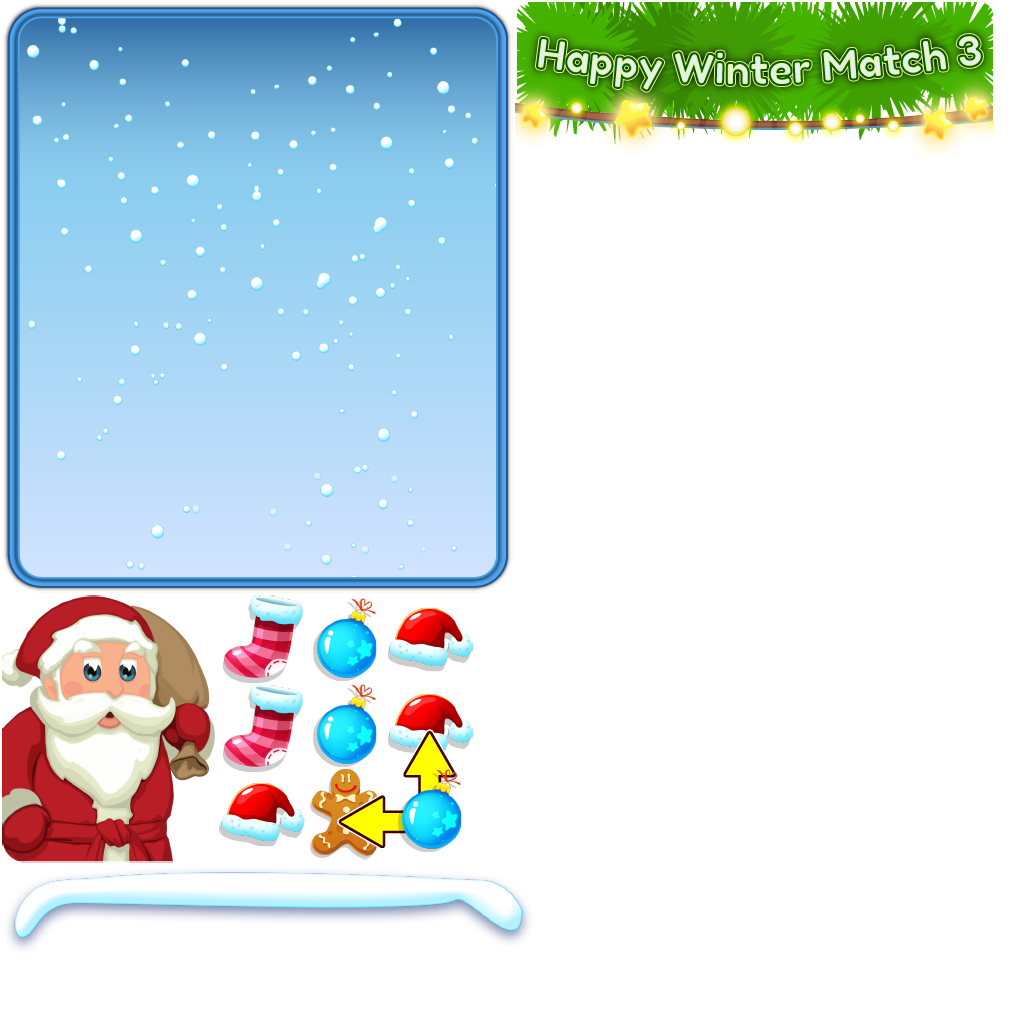
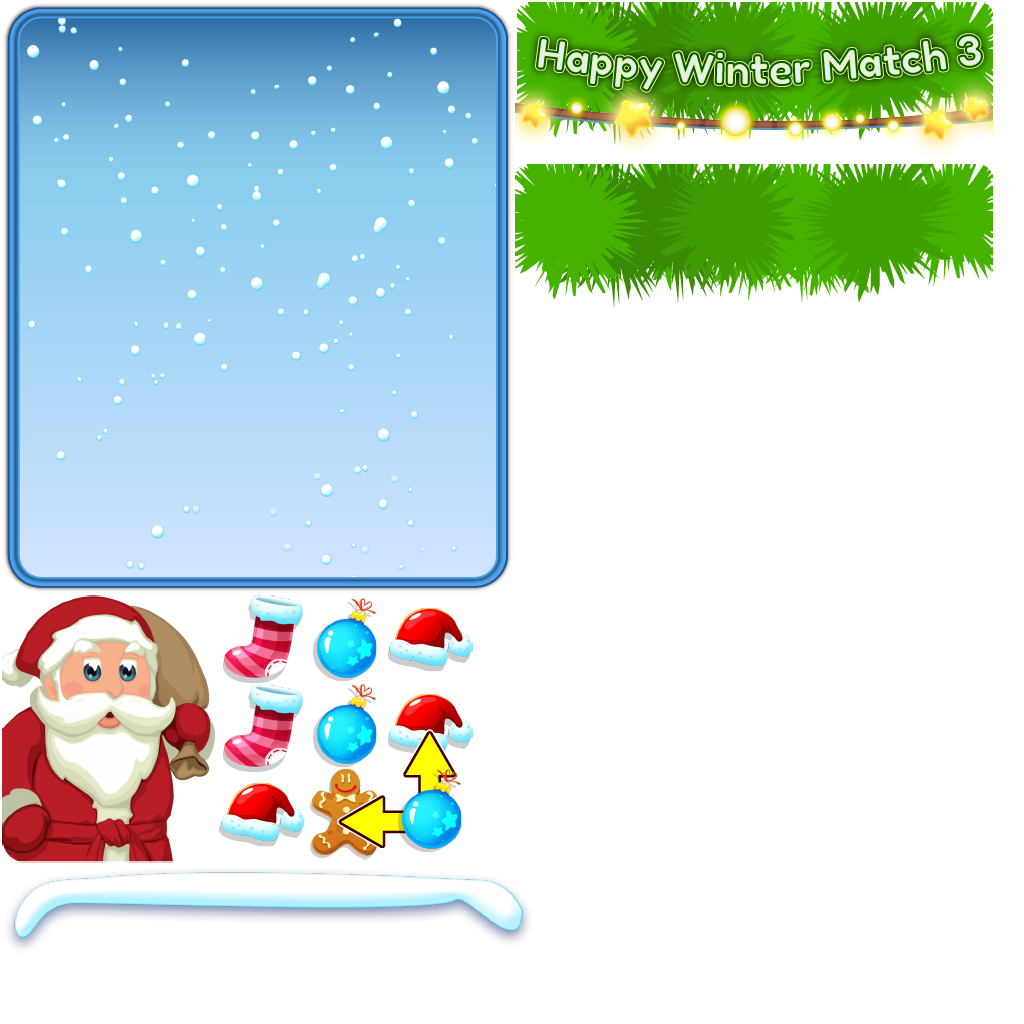
ButtonBuilder as singleton + gameover screen design

Changed region(s): [[0.5, 0.1562, 0.9688, 0.3125]]

diff --git a/js/widgets/GameOverPopup.js b/js/widgets/GameOverPopup.js
@@ -1,0 +1,108 @@
+/**
+ * Created by Work on 09.12.2017.
+ */
+
+function GameOverPopup(game) {
+    this.score = 0;
+    this.scorePostText = 0;
+
+    this.game = game;
+    this.bg = game.add.image(0, 0, R.images.ui.popupBg.page, R.images.ui.popupBg.name);
+
+    this.addLayout();
+
+    this.rootView = this.bg; // для ссылки снаружи
+    this.rootView.alignIn(game.world, Phaser.CENTER, 0, -20);
+    this.hide(); // по умолчанию не показываем
+}
+
+GameOverPopup.prototype.alignIn = function (t, e, s, n) {
+    this.rootView.alignIn(t, e, s, n);
+    return this;
+};
+
+GameOverPopup.prototype.alignTo = function (t, e, s, n) {
+    this.rootView.alignTo(t, e, s, n);
+    return this;
+};
+
+GameOverPopup.prototype.show = function (score) {
+    this.score = score || 0;
+    this.scoreText.setText(this.score);
+    this.rootView.revive();
+    this.game.world.bringToTop(this.rootView);
+    // this.game.paused = true;
+    return this;
+};
+
+GameOverPopup.prototype.switch = function () {
+    if (this.rootView.alive) this.hide();
+    else this.show();
+};
+
+GameOverPopup.prototype.hide = function () {
+    this.rootView.kill();
+    return this;
+};
+
+GameOverPopup.prototype.setXY = function (x, y) {
+    this.rootView.x = x;
+    this.rootView.y = y;
+    return this;
+};
+
+GameOverPopup.prototype.onNewGamePressed = function () {
+    this.hide();
+    if (this.newGameCallback) {
+        this.newGameCallback.call(this.newGameCallbackContext);
+    }
+};
+
+GameOverPopup.prototype.setNewGameCallBack = function (callback, context) {
+    this.newGameCallback = callback;
+    this.newGameCallbackContext = context;
+    return this;
+};
+
+GameOverPopup.prototype.addLayout = function () {
+    var logo = this.game.add.image(0, 0, R.images.ui.elkaBg.page, R.images.ui.elkaBg.name);
+    logo.alignIn(this.bg, Phaser.TOP_CENTER, 0, -14);
+    this.bg.addChild(logo);
+
+    var snowTop = this.game.add.image(0, 0, R.images.ui.snowTopping.page, R.images.ui.snowTopping.name);
+    snowTop.alignIn(this.bg, Phaser.TOP_CENTER, 0, 14);
+    this.bg.addChild(snowTop);
+
+    var scoreBg = this.game.add.image(0, 0, R.images.ui.scoreBg.page, R.images.ui.scoreBg.name);
+    scoreBg.alignIn(this.bg, Phaser.CENTER, 0, -42);
+    this.bg.addChild(scoreBg);
+
+    this.scoreText = this.game.add.bitmapText(0, 0, R.fonts.fedoka.name, "" + this.score, 48);
+    this.scoreText.tint = "0xF9DC07";
+    this.scoreText.anchor.set(0.5, 0.5);
+    this.scoreText.alignIn(scoreBg, Phaser.CENTER);
+    this.bg.addChild(this.scoreText);
+
+    this.scorePrefixText = this.game.add.bitmapText(0, 0, R.fonts.robotoBold.name, R.strings.en.gameoverScorePrefix, 38);
+    this.scorePrefixText.tint = "0x1E396C";
+    this.scorePrefixText.anchor.set(0.5, 0);
+    this.scorePrefixText.alignTo(scoreBg, Phaser.TOP_CENTER);
+    this.bg.addChild(this.scorePrefixText);
+
+    this.scorePostText = this.game.add.bitmapText(0, 0, R.fonts.robotoBold.name, R.strings.en.gameoverScorePostfix, 26);
+    this.scorePostText.tint = "0x1E396C";
+    this.scorePostText.align = "center";
+    this.scorePostText.anchor.set(0.5, 0);
+    this.scorePostText.alignTo(scoreBg, Phaser.BOTTOM_CENTER);
+    this.bg.addChild(this.scorePostText);
+
+    this.titleText = this.game.add.bitmapText(0, 0, R.fonts.robotoBold.name, R.strings.en.gameoverTitle, 48);
+    this.titleText.align = "center";
+    this.titleText.alignIn(this.bg, Phaser.TOP_CENTER, 0, -46);
+    this.bg.addChild(this.titleText);
+
+    var buttonBuilder = ButtonBuilder;
+    this.startButton = buttonBuilder.restartGameOverButton(0,0, this.onNewGamePressed, this);
+    this.startButton.alignIn(this.bg, Phaser.BOTTOM_CENTER, 0, -32);
+    this.bg.addChild(this.startButton);
+};

diff --git a/js/widgets/ButtonBuilder.js b/js/widgets/ButtonBuilder.js
@@ -11,11 +11,13 @@
  * Каждый метод билдер возвращает ссылку на созданный / добавленный объект
  */
 
-function ButtonBuilder(game) {
+var ButtonBuilder = {};
+ButtonBuilder.init = function (game) {
     this.game = game;
-}
+};
 
-ButtonBuilder.prototype.newButton = function (x, y, callback, context, idleFramePage, idleFrameName, pressedFrameName) {
+
+ButtonBuilder.newButton = function (x, y, callback, context, idleFramePage, idleFrameName, pressedFrameName) {
     return this.game.add.button(x, y, idleFramePage,
         callback, context,
         idleFrameName, idleFrameName,
@@ -23,27 +25,40 @@ ButtonBuilder.prototype.newButton = function (x, y, callback, context, idleFrame
         idleFrameName);
 };
 
-ButtonBuilder.prototype.settingsButton = function (x, y, callback, context) {
+ButtonBuilder.settingsButton = function (x, y, callback, context) {
     return this.newButton(x, y, callback, context,
         R.images.buttons.settingsIdle.page,
         R.images.buttons.settingsIdle.name,
         R.images.buttons.settingsPressed.name);
 };
 
-ButtonBuilder.prototype.newGameButton = function (x, y, callback, context) {
+ButtonBuilder.newGameButton = function (x, y, callback, context) {
     return this.newButton(x, y, callback, context,
         R.images.buttons.replayIdle.page,
         R.images.buttons.replayIdle.name,
         R.images.buttons.replayPressed.name);
 };
 
-ButtonBuilder.prototype.hintButton = function (x, y, callback, context) {
+ButtonBuilder.hintButton = function (x, y, callback, context) {
     var button = this.newButton(x, y, callback, context,
         R.images.buttons.midGreenIdle.page,
         R.images.buttons.midGreenIdle.name,
         R.images.buttons.midGreenPressed.name);
 
     var text = this.game.add.bitmapText(0, 0, R.fonts.robotoBold.name, R.strings.en.hintButton, 32);
+    text.anchor.setTo(0.5, 0.5);
+    text.alignIn(button, Phaser.CENTER);
+    button.addChild(text);
+    return button;
+};
+
+ButtonBuilder.restartGameOverButton = function (x, y, callback, context) {
+    var button = this.newButton(x, y, callback, context,
+        R.images.buttons.bigGreenIdle.page,
+        R.images.buttons.bigGreenIdle.name,
+        R.images.buttons.bigGreenPressed.name);
+
+    var text = this.game.add.bitmapText(0, 0, R.fonts.robotoBold.name, R.strings.en.gameoverRestartButton, 32);
     text.anchor.setTo(0.5, 0.5);
     text.alignIn(button, Phaser.CENTER);
     button.addChild(text);

diff --git a/js/windows/main/MainState.js b/js/windows/main/MainState.js
@@ -12,7 +12,7 @@ function MainState() {
         this.HINT_SCORE_PRICE = 30;
         this.score = 0;
 
-        var buttonBuilder = new ButtonBuilder(this.game);
+        var buttonBuilder = ButtonBuilder;
 
         var bg = this.game.add.image(0, 0, R.images.bg.cristmas); // bg
 
@@ -39,7 +39,9 @@ function MainState() {
 
         this.effectManager = new EffectManager(this.game, this.bejeweledComponent);
 
-        this.hintButton = buttonBuilder.hintButton(0, 0, this.onHintButtonClick, this);
+        //this.hintButton = buttonBuilder.hintButton(0, 0, this.onHintButtonClick, this);
+        // gameover popup test todo remove after test
+        this.hintButton = buttonBuilder.hintButton(0, 0, this.onGameOver, this);
         this.hintButton.alignTo(this.bejeweledComponent.rootView, Phaser.BOTTOM_CENTER, 0, 20);
         this.hintButton.kill(); // прячем до начала игры
 
@@ -71,10 +73,15 @@ function MainState() {
     };
 
     this.addGameOverPopup = function () {
-        this.gameOverPopup = new UiTextButton(this.game, 328, 256, "GAME OVER \n restart?", "#FF9900", "#AE6800")
+       /* this.gameOverPopup = new GameOverPopup(this.game, 328, 256, "GAME OVER \n restart?", "#FF9900", "#AE6800")
             .alignIn(this.game.world, Phaser.CENTER)
             .setCallback(this.onNewGameClick, this);
-        this.gameOverPopup.kill();
+        this.gameOverPopup.kill();*/
+
+       this.gameOverPopup = new GameOverPopup(this.game)
+           .setNewGameCallBack(this.onNewGameClick, this)
+           .alignIn(this.game.world, Phaser.CENTER)
+           .hide();
     };
 
     this.addBejeweled = function () {
@@ -123,9 +130,13 @@ function MainState() {
 
         // нет больше ходов
         bejeweledComponent.callbacks.noMoves = function () {
-            me.lockUi(true);
-            me.gameOverPopup.revive();
+            me.onGameOver();
         };
+    };
+
+    this.onGameOver = function () {
+        this.lockUi(true);
+        this.gameOverPopup.show(this.score);
     };
 
     this.onSettingsClick = function () {
@@ -164,6 +175,7 @@ function MainState() {
     this.lockUi = function (lock) {
         //   this.game.paused = lock; // при этом перестают работать и кнопки и слайдеры
         this.isUiLocked = lock;
+        if(lock) this.hintButton.kill(); else this.hintButton.revive();
         this.bejeweledComponent.lockUiGlobal(lock);
     };
 }

diff --git a/js/assets/R.js b/js/assets/R.js
@@ -51,6 +51,7 @@ var R = {
             snowTopping: {page: "start-screen", name: "snow-pop-topping"},
             tutorial01: {page: "start-screen", name: "tutorial-01"},
             titleLogo: {page: "start-screen", name: "titlelogo"},
+            elkaBg: {page: "start-screen", name: "elka-bg"},
         },
 
         slider: {
@@ -127,6 +128,10 @@ var R = {
             soundOn: "Sounds On",
             soundOff: "Sounds Off",
             hintButton: "HINT",
+            gameoverTitle: "GAME OVER",
+            gameoverScorePrefix: "your score",
+            gameoverScorePostfix: "best score of\nthis hour!",
+            gameoverRestartButton: "PLAY AGAIN",
             tutorial1text1: "Tap to select\nor swipe items\nto match 3\nin row or group",
             tutorial1text2: "Christmas ball\ncan go left or up",
         },
@@ -139,6 +144,10 @@ var R = {
             soundOn: "Звуки",
             soundOff: "Звуки",
             hintButton: "ПОДСКАЗКА",
+            gameoverTitle: "ХОДОВ НЕТ",
+            gameoverScorePrefix: "набрано",
+            gameoverScorePostfix: "Это лучший результат\nчаса!",
+            gameoverRestartButton: "ИГРАТЬ ЕЩЕ",
             tutorial1text1: "Собирай\nподарки\nпо 3 в ряд\n или в группе",
             tutorial1text2: "Елочный шар\nможет пойти влево и вверх",
         },

diff --git a/js/windows/boot/Preloader.js b/js/windows/boot/Preloader.js
@@ -14,6 +14,7 @@ function Preloader(assetLoader) {
         console.log("Preloader create");
         document.getElementById(AppConfig.preloaderId).style.display = "none"; // убираем лого загрузчика
         Sound.init(this.game, Repository); // инициализируем звуковую систему
+        ButtonBuilder.init(this.game); // инициализируем билдер кнопок
         this.game.state.start(States.START_SCREEN);
     }
 };

diff --git a/index.html b/index.html
@@ -33,6 +33,7 @@
 <script src="js/widgets/effects/Explosion.js"></script>
 <script src="js/widgets/effects/EffectManager.js"></script>
 <script src="js/widgets/StartPopup.js"></script>
+<script src="js/widgets/GameOverPopup.js"></script>
 <script src="js/widgets/SettingsPopup.js"></script>
 <script src="js/widgets/VolumeSlider.js"></script>
 <script src="js/widgets/JewelGenerator.js"></script>
